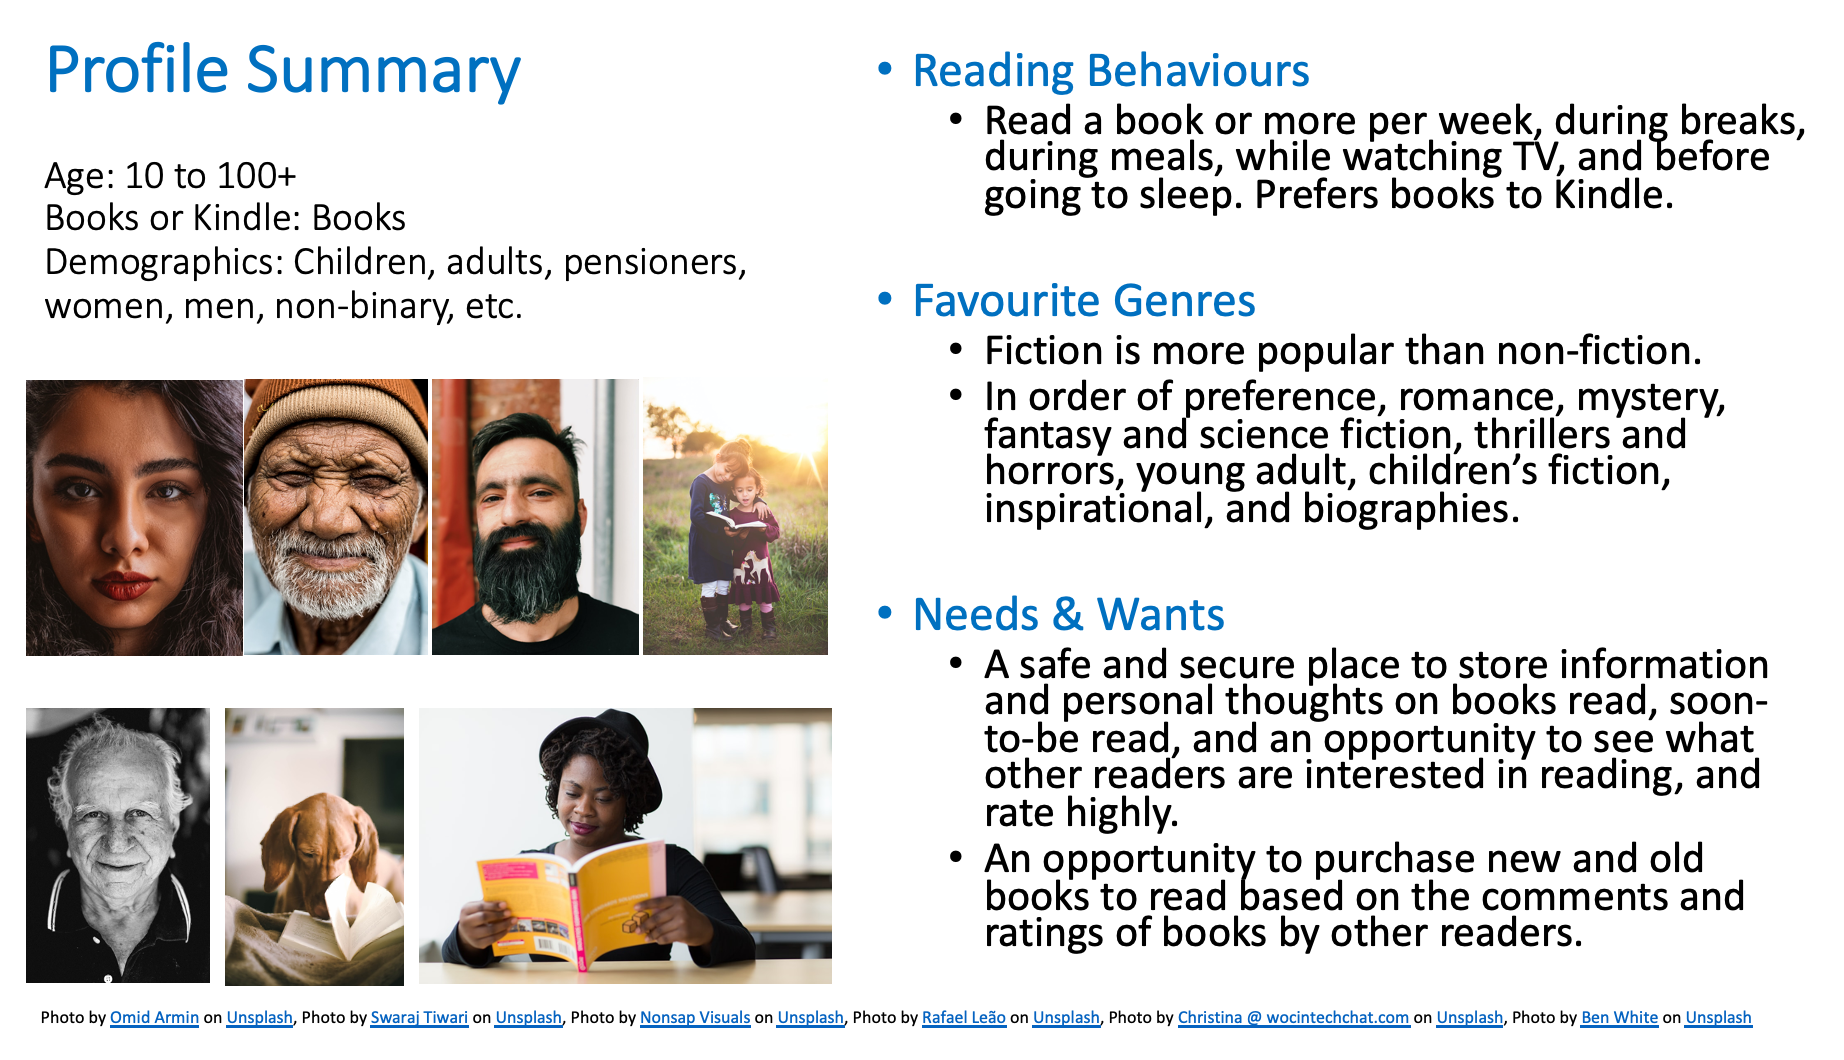
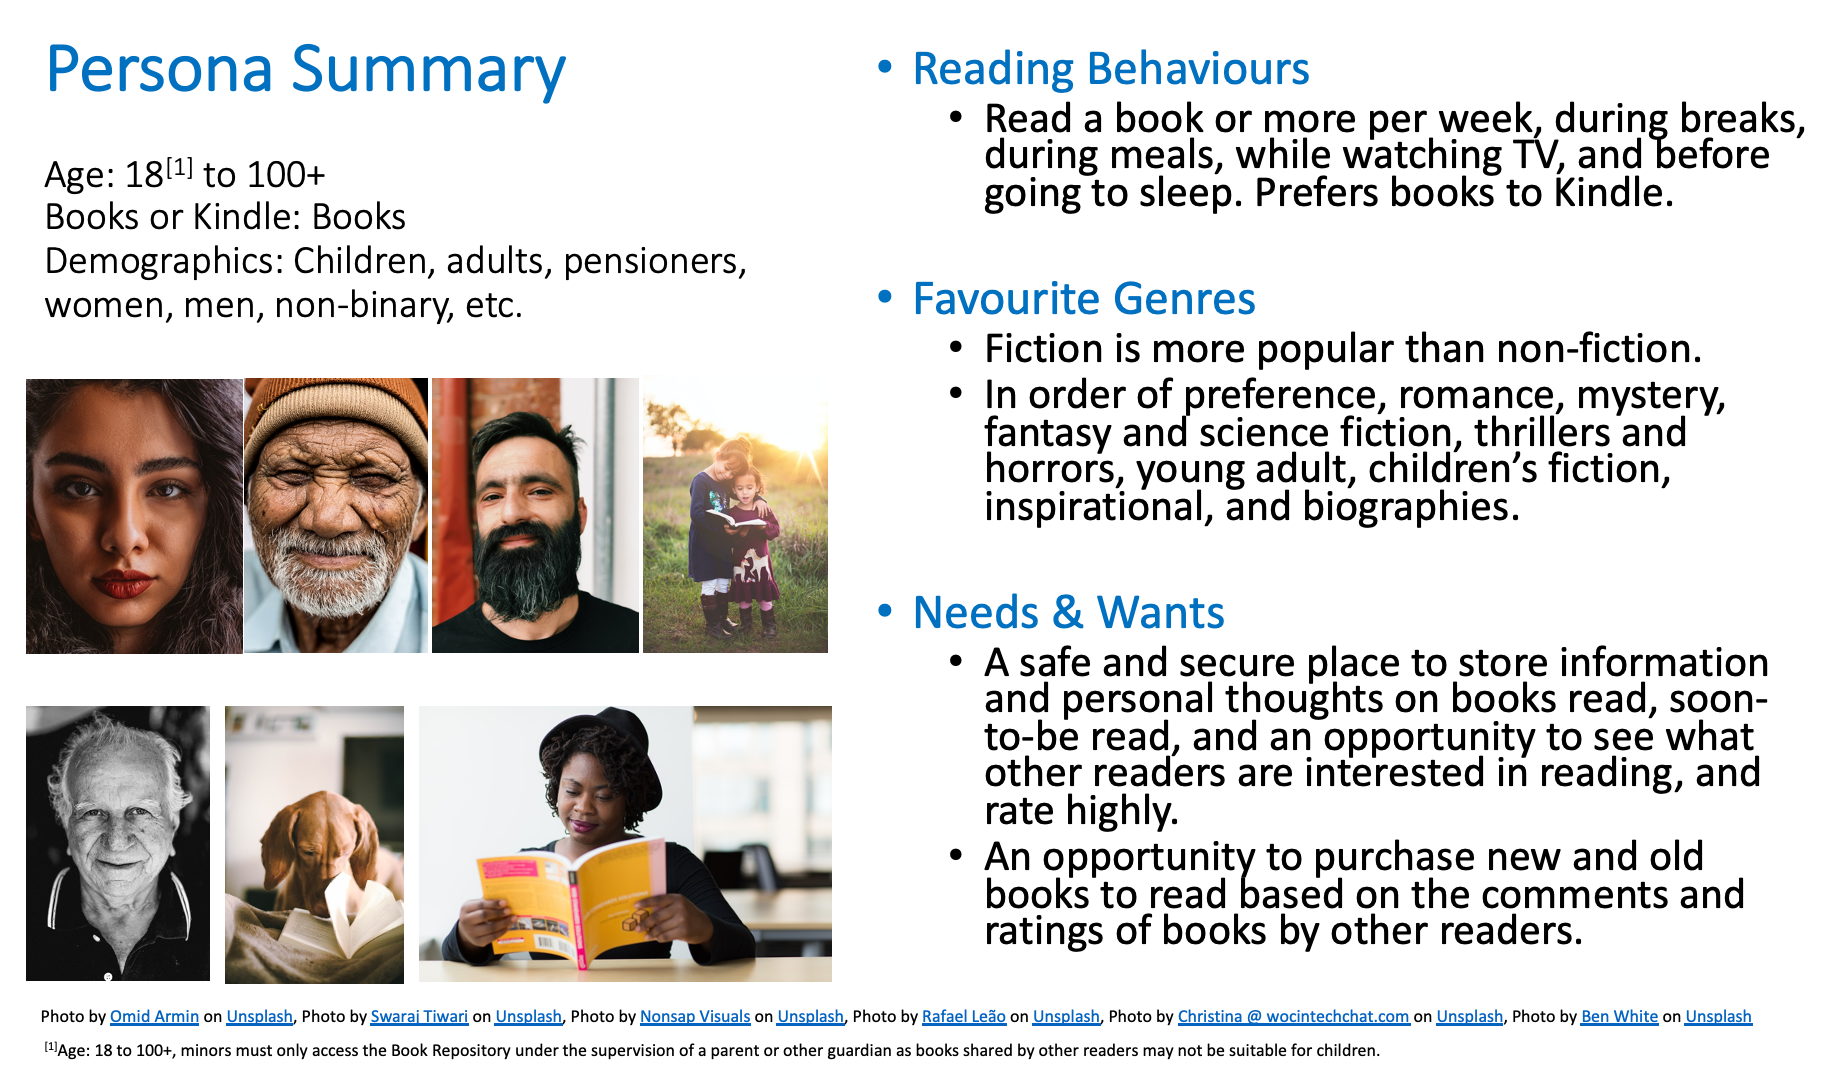
Documentation: updated Persona Summary diagram and the Persona Summary title in 'READEME.md'.

diff --git a/README.md b/README.md
@@ -29,7 +29,7 @@ Find new books to read, broadening my horizons, and enjoying the excitement of d
 ## User Experience
 User experience (UX) design is the design process used to create applications and websites that provide meaningful and relevant experiences to users. 
 
-### A persona summary of the users/readers of the Book Repository
+### A Persona Summary of the Users/Readers of the Book Repository
 ![Persona Summary](https://github.com/NaoiseGaffney/BookRepository/blob/development/documentation/Persona%20Summary.png)
 
 ### User Stories, Use Cases, and Tasks
